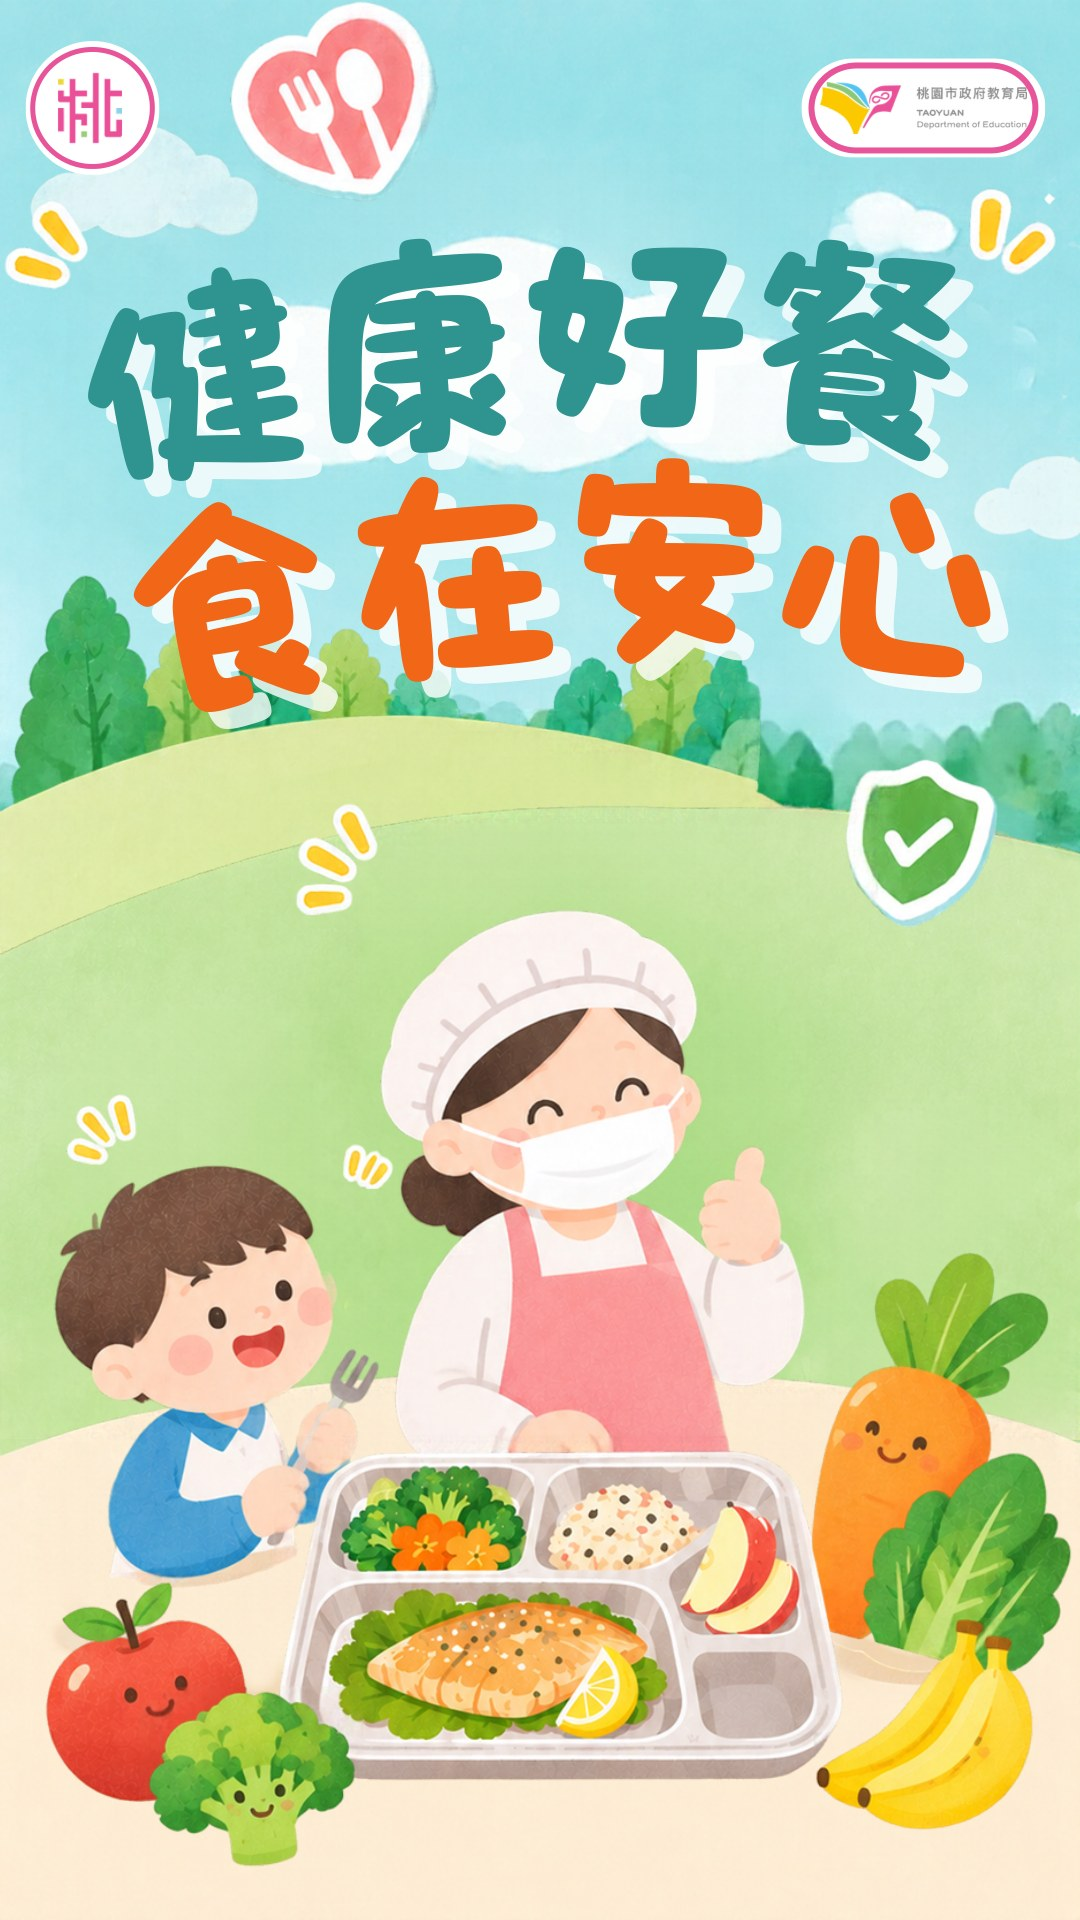
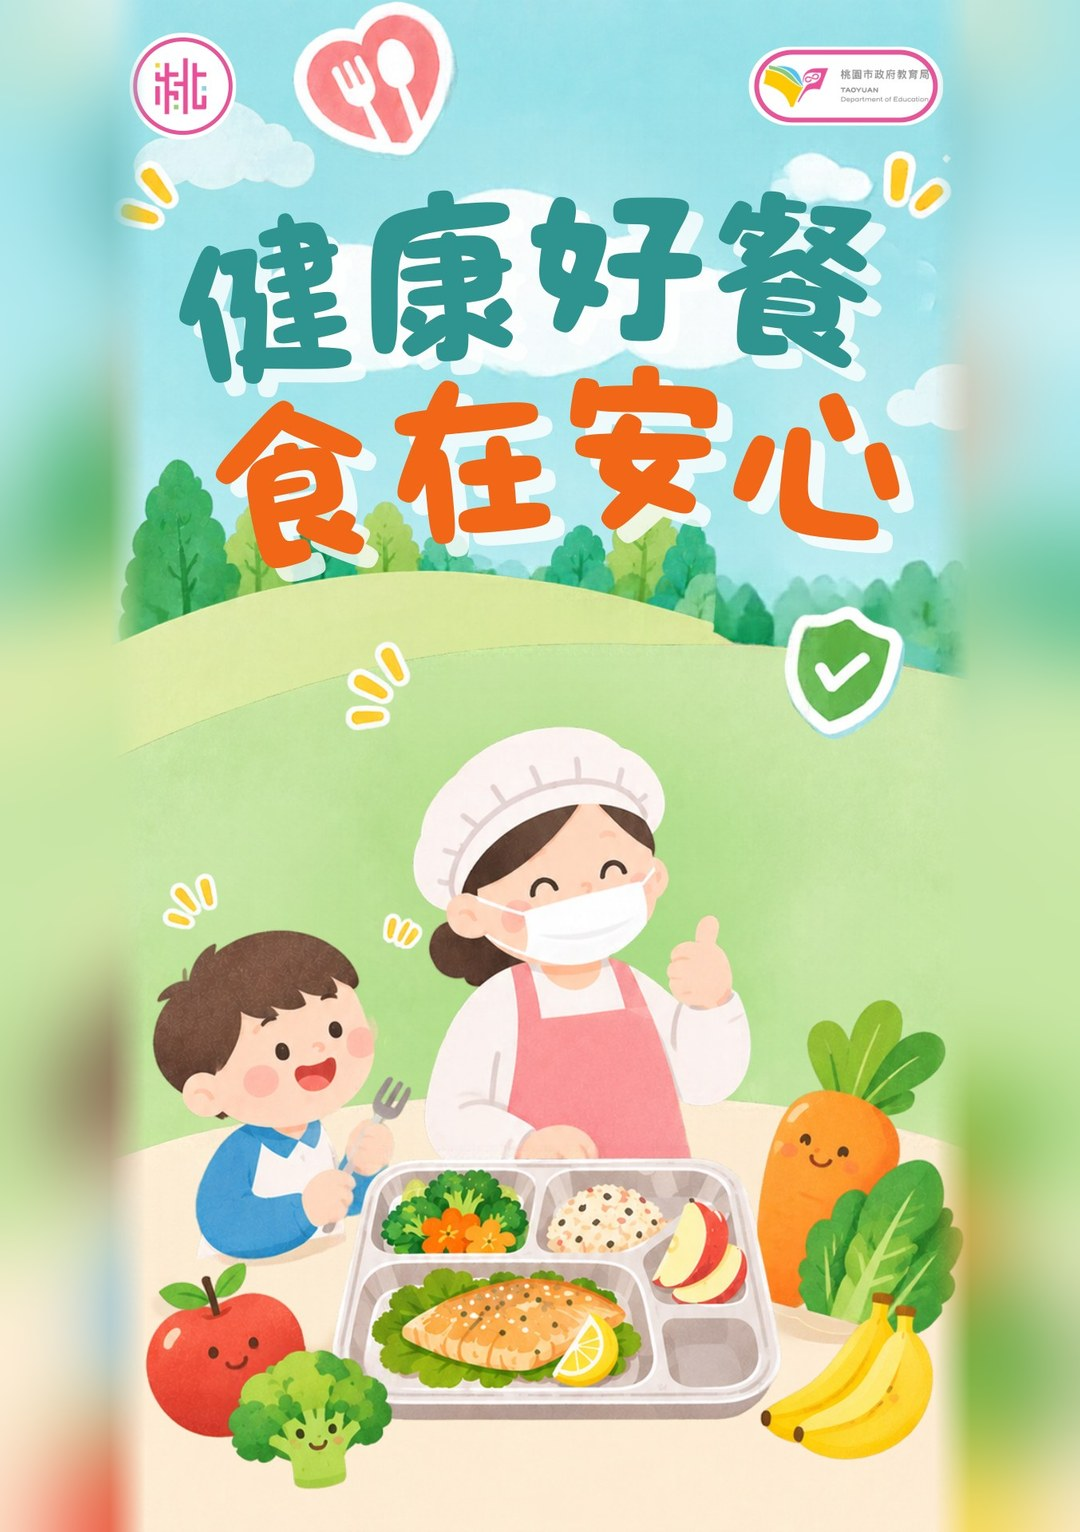
Shelf: four A5 covers on one row, 午餐輔導團評鑑書 on its own row

diff --git a/index.html b/index.html
@@ -229,11 +229,16 @@
     var box = $('books'); box.innerHTML = '';
     var W = innerWidth, H = innerHeight;
     function fac(b){ return b.type === 'video' ? (b.coverRatio ? b.coverRatio / .708 : 1.6) : (b.coverRatio || b.ratio) / .708; }   // 各項目寬度相對於「--w」的倍數（封面等高）
-    var sumF = 0; BOOKS.forEach(function(b){ sumF += fac(b); });
-    var availW = Math.min(W - 48, 1400) - (BOOKS.length - 1) * 56 - 4;
+    var rowOf = function(b){ return b.row || 1; };
+    var nRows = 1; BOOKS.forEach(function(b){ nRows = Math.max(nRows, rowOf(b)); });
+    var sumF = 0, cnt = 0; BOOKS.forEach(function(b){ if (rowOf(b) === 1){ sumF += fac(b); cnt++; } });
+    var availW = Math.min(W - 48, 1400) - (cnt - 1) * 56 - 4;
     var w0 = Math.min(0.22 * W, 0.34 * H, 380);
+    if (nRows > 1) w0 = Math.min(w0, Math.max(170, .708 * ((H - 308) / nRows - 200)));   // 多排時縮小封面，盡量一個畫面放下
     box.style.setProperty('--w', Math.max(120, Math.min(w0, availW / sumF)) + 'px');
+    var lastRow = 1;
     BOOKS.forEach(function(b){
+      if (rowOf(b) !== lastRow){ lastRow = rowOf(b); var br = document.createElement('span'); br.style.cssText = 'flex:0 0 100%;height:0;margin-top:-48px'; box.appendChild(br); }
       var it = document.createElement('a'); it.className = 'item'; it.href = '#' + encodeURIComponent(b.id);
       var isVid = b.type === 'video';
       it.innerHTML = '<div class="cover"><img alt="">' + (isVid ? '<i class="play"></i>' : '') + '</div><div class="name"></div><div class="desc"></div><span class="pages"></span><span class="go">' + (isVid ? '播放影片' : '開始閱讀') + '</span>';

diff --git a/books.js b/books.js
@@ -9,6 +9,7 @@ window.BOOKS = [
     subtitle: '營養午餐亮點食譜',
     pages: 178,
     ratio: 515.906 / 728.504,
+    coverRatio: 148 / 210,
     toc: []
   },
   {
@@ -17,6 +18,7 @@ window.BOOKS = [
     subtitle: '桃園鈣健康・憑卡免費換',
     pages: 24,
     ratio: 419.528 / 595.276,
+    coverRatio: 148 / 210,
     toc: [
       { t: '目錄', p: 2 },
       { t: '實施方式', p: 3 },
@@ -42,7 +44,7 @@ window.BOOKS = [
     subtitle: '',
     pages: 83,
     cover: 'books/lunch/cover.jpg',
-    coverRatio: 9 / 16,
+    coverRatio: 148 / 210,
     ratio: 16 / 9,
     toc: [
       { t: '封面', p: 1 },
@@ -52,7 +54,19 @@ window.BOOKS = [
     ]
   },
   {
+    id: 'video',
+    type: 'video',
+    title: '校園米其林美食爭霸賽',
+    subtitle: '活動影片',
+    duration: '5 分 41 秒',
+    src: 'media/michelin.mp4',
+    poster: 'media/michelin-poster.jpg',
+    cover: 'media/michelin-cover.jpg',
+    coverRatio: 148 / 210
+  },
+  {
     id: 'review',
+    row: 2,
     title: '午餐輔導團評鑑書',
     subtitle: '桃園市午餐輔導團亮點活動',
     pages: 11,
@@ -70,16 +84,5 @@ window.BOOKS = [
       { t: '午餐教育工作研習及參訪', p: 10 },
       { t: '食育力五星城市', p: 11 }
     ]
-  },
-  {
-    id: 'video',
-    type: 'video',
-    title: '校園米其林美食爭霸賽',
-    subtitle: '活動影片',
-    duration: '5 分 41 秒',
-    src: 'media/michelin.mp4',
-    poster: 'media/michelin-poster.jpg',
-    cover: 'media/michelin-cover.jpg',
-    coverRatio: 9 / 16
   }
 ];
